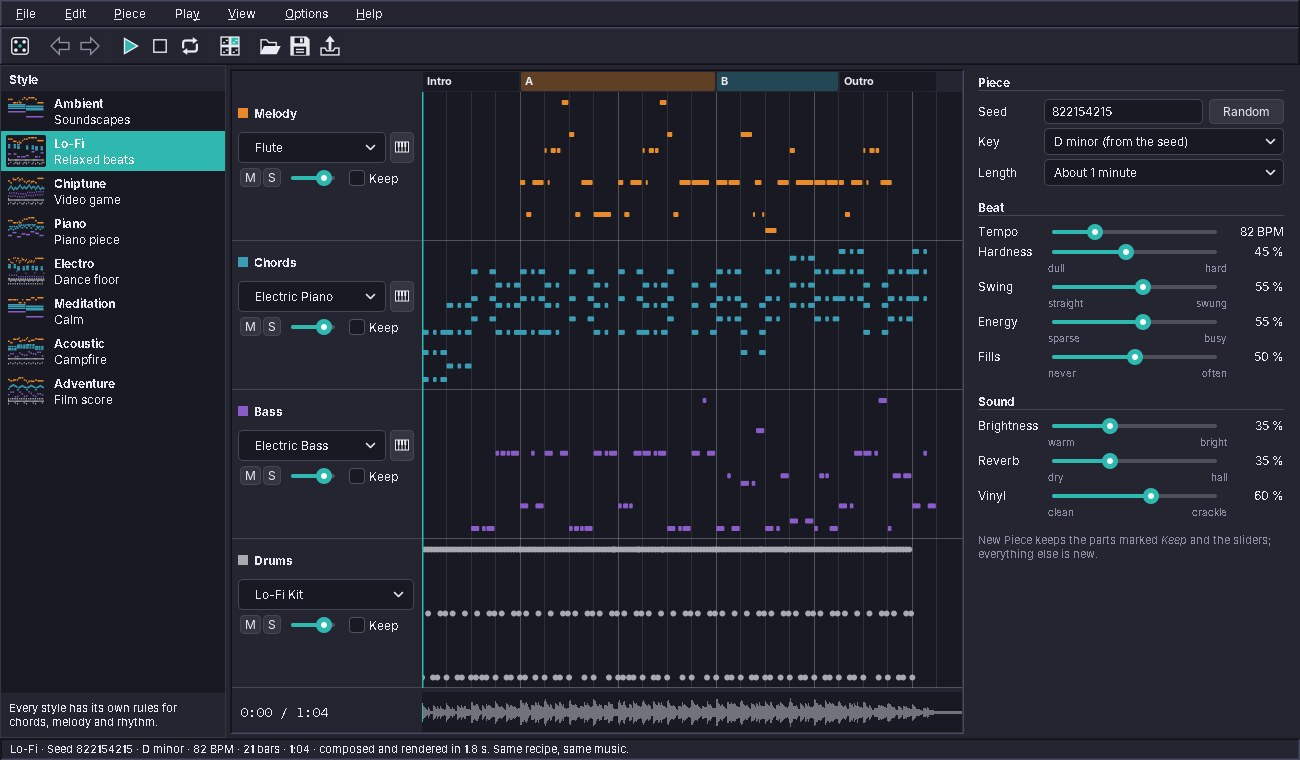
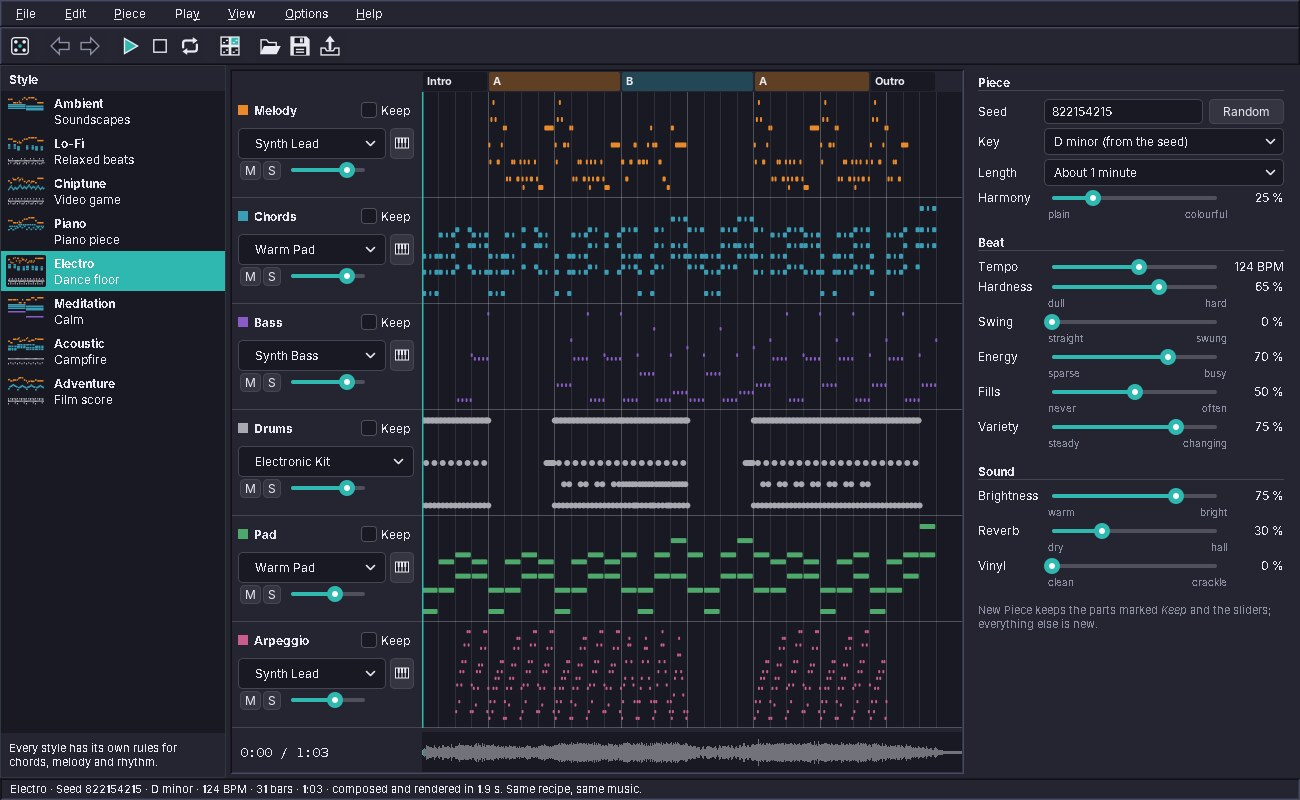
docs: Music Studio with voices, pad, arpeggio, variety and harmony
The handbook section on Music Studio describes the sung voices, the two
extra parts, filter sweep and tremolo, the sliders Variety and Harmony
and the twelve-channel module; the picture shows the six lanes. The
roadmap notes the changes.

Claude-Session: https://claude.ai/code/session_017Pd6Nc1tsxWAwB6LZ9EyPg

diff --git a/docs/handbook/chapters/46-audio-video.md b/docs/handbook/chapters/46-audio-video.md
@@ -230,23 +230,34 @@ On the right are the **picture controls** the camera offers: brightness, contras
 
 Music Studio is not on the installation medium: install it from **Software** (chapter 51), or with `sudo apt install amade-musicstudio` in a terminal. Then start it from the Sound & Video drawer, or with `amade-musicstudio`.
 
-![Music Studio with a Lo-Fi piece: the styles on the left, the four parts in the middle, the recipe on the right](images/46/music-studio.jpg)
+![Music Studio with an Electro piece: the styles on the left, the six parts in the middle, the recipe on the right](images/46/music-studio.jpg)
 
 ### Styles and parts
 
 The list on the left shows eight styles, each with its own rules for chords, melody and rhythm: *Ambient*, *Lo-Fi*, *Chiptune*, *Piano*, *Electro*, *Meditation*, *Acoustic* and *Adventure*. The *Piece → Style* menu has the same list, with ++alt+1++ to ++alt+8++.
 
-In the middle, every part of the piece has a lane of its own: **Melody**, **Chords**, **Bass** and **Drums**. The notes are shown like a piano roll, high notes at the top; the bar above shows the form (intro, A, B, outro), the waveform below the sound. Click a lane or the waveform to jump there. At the left of each lane:
+In the middle, every part of the piece has a lane of its own: **Melody**, **Chords**, **Bass** and **Drums**, and two extras a piece can do without: the **Pad**, two long notes of every chord that fill the sound, and the **Arpeggio**, the notes of the chord played one after another. The notes are shown like a piano roll, high notes at the top; the bar above shows the form (intro, A, B, outro), the waveform below the sound. Click a lane or the waveform to jump there. At the left of each lane:
 
 | Control | What it does |
 |---|---|
-| Instrument list | The instrument of the part, or the drum kit |
-| Keyboard button | The **instrument chooser**: a description, the waveform of a note and a keyboard to try it, with the mouse or the keys ++a++ to ++l++. Attack, release and octave can be changed there too. |
+| Instrument list | The instrument of the part, or the drum kit. For pad and arpeggio the first entry is *Off*: the part does not play. |
+| Keyboard button | The **instrument chooser**: a description, the waveform of a note and a keyboard to try it, with the mouse or the keys ++a++ to ++l++. Attack, release and octave can be changed there too, and the two movements described below. |
 | **M**, **S** | Mute the part, or hear it alone (solo) |
 | Slider | The volume of the part |
 | **Keep** | *New Piece* leaves this part as it is and only writes the others anew |
 
 There are sixteen instruments (piano, electric piano, organ, bells, marimba, strings, harp, guitar, flute, pads, synth lead, two chip sounds and three basses) and five drum kits. All of them are calculated, so every instrument can play every part.
+
+Nine more instruments are **sung voices** without words: a man, a woman and a child singing *ooh* or *aah*, and a choir of six singing *ooh*, *aah* or humming. They are calculated like the others and can sing every part; a choir on the pad or the chords and a single voice on the melody go well together.
+
+In the instrument chooser, every instrument can **move** in time with the piece:
+
+| Movement | What it does |
+|---|---|
+| **Filter sweep** | The sound closes, becomes dull, and opens again. *One sweep lasts* eight bars down to an eighth note: slow for pads, fast for a pulsing sound. |
+| **Tremolo** | The volume sinks and rises again, over the length chosen under *One wave lasts*. |
+
+Both follow the bars of the piece, so they are heard in the piece and not on a single note of the keyboard.
 
 ### Making a piece
 
@@ -264,8 +275,11 @@ The panel on the right holds the recipe:
 
 - **Seed**: the number chance starts from, 0 to 999 999 999. Type one in to get a piece again.
 - **Key** (or the key the seed chooses) and **Length**, from 30 seconds to 5 minutes.
-- **Beat**: *Tempo*, *Hardness* (dull to hard drums), *Swing* (straight to swung), *Energy* (sparse to busy) and *Fills*.
+- **Harmony** (plain to colourful): at *plain* every chord is the simple chord of the key. The more colourful, the more chords are suspended, get a seventh, sixth or ninth, lead home more strongly, or have another note in the bass.
+- **Beat**: *Tempo*, *Hardness* (dull to hard drums), *Swing* (straight to swung), *Energy* (sparse to busy), *Fills* and *Variety*.
 - **Sound**: *Brightness*, *Reverb* (dry to a hall) and *Vinyl* (the crackle of an old record).
+
+**Variety** (steady to changing) decides how much happens in the course of a piece. At *steady* all parts play from start to end. The more it changes, the more often melody, bass, drums, pad and arpeggio come in a few bars late or rest for four or eight bars, while the chords carry on. The drums answer: a roll before they come back, a last hit when they stop, a short fill and a crash when another part comes in. A busy piece also gets one more drum, whose hits are spread evenly over the bar.
 
 A slider takes effect when you let it go. Composing takes a moment; the sound is then calculated in the background, a minute of music in one or two seconds. Volumes, reverb, crackle, mute and solo change the sound almost at once.
 
@@ -277,15 +291,12 @@ A slider takes effect when you let it go. Composing takes a moment; the sound is
 |---|---|
 | **WAV**, **FLAC** | Lossless sound for video editing and further work; FLAC is about half the size |
 | **OGG** | Small files, like MP3 but free |
-| **MOD** | A tracker module with the instruments as samples, for tracker programs and old computers; the Audio Station plays it too |
+| **MOD** | A tracker module with the instruments as samples, for tracker programs and old computers; the Audio Station plays it too. It has eight channels, or twelve when pad or arpeggio play; filter sweep and tremolo are left out. |
 | **MIDI** | Only the notes, one track per part, for notation programs and keyboards |
 
-*As a seamless loop* leaves out intro and outro, so the end flows into the start, for games and presentations. *Each part as a separate file* writes the four parts besides the whole piece, for mixing them elsewhere.
+*As a seamless loop* leaves out intro and outro, so the end flows into the start, for games and presentations. *Each part as a separate file* writes every part that plays besides the whole piece, for mixing them elsewhere.
 
 Every exported file keeps the recipe inside: opening it in Music Studio (*File → Open*) brings the piece back, to change it further. *File → Save Recipe* writes a small text file (`.musicrecipe`). *Edit → Copy Recipe* puts the recipe on the clipboard as one line, to send in a mail; whoever pastes it with *Edit → Paste Recipe* gets exactly your piece.
 
 ??? hood "Under the hood"
-    Every part draws its chance from a seed of its own, which is how *Keep* works. The four parts are calculated side by side on all processor cores and kept apart until the end, so a new volume only mixes them again. FLAC and WAV are written by Music Studio itself; OGG uses the GStreamer tools, which Software installs with it.
-
-!!! planned "Planned"
-    Sung voices: a choir without words (ooh, aah, mmm) with male, female and children's voices, as further instruments.
+    Every part draws its chance from a seed of its own, which is how *Keep* works. Rests are made after the notes are written: a part plays the same notes whether or not it rested before, and with *Harmony* at plain, *Variety* at steady and pad and arpeggio off a piece is as simple as it gets. The evenly spread hits are Euclidean rhythms, the pattern behind many dance rhythms of the world. The parts are calculated side by side on all processor cores and kept apart until the end, so a new volume only mixes them again. FLAC and WAV are written by Music Studio itself; OGG uses the GStreamer tools, which Software installs with it.

diff --git a/ROADMAP.md b/ROADMAP.md
@@ -154,6 +154,10 @@ Built: the privileged helper `/usr/libexec/amadeos-packages` (apt through `pkexe
 
 Newest first. Numbers without a repository name are pull requests in this repository; amadeos-system is abbreviated *system*, amade-commons *commons*.
 
+### 2026-11-15
+
+- Music Studio grows (amade-musicstudio #3, #4): nine **sung voices** without words (man, woman, child and a choir, *ooh*, *aah* and humming) as instruments; two more parts, **Pad** and **Arpeggio**, that can be switched off; a **filter sweep** and a **tremolo** in time with the piece for every instrument; the sliders **Variety** (parts rest and come back, the drums answer with rolls, fills and crashes) and **Harmony** (suspended, seventh, sixth, ninth, dominant, augmented and diminished chords, the third in the bass); Euclidean rhythms for an extra drum and the arpeggio. Modules have twelve channels when pad or arpeggio play. User's Handbook chapter 46.
+
 ### 2026-11-14
 
 - New application [`amade-musicstudio`](https://github.com/amadeos-eu/amade-musicstudio) (#1): **Music Studio** makes music from a style, sliders and chance, without internet and without recordings: eight styles, four parts (melody, chords, bass, drums) with sixteen synthesized instruments and five drum kits, mute, solo and *Keep* per part, beat and sound sliders, variations to listen to and a history; exports WAV, FLAC, OGG, MOD and MIDI with the recipe inside, so every file opens again. Not in the image: installed from Software or with `sudo apt install amade-musicstudio` (`# optional` in repositories.list), then in the Sound & Video drawer; User's Handbook chapter 46.
